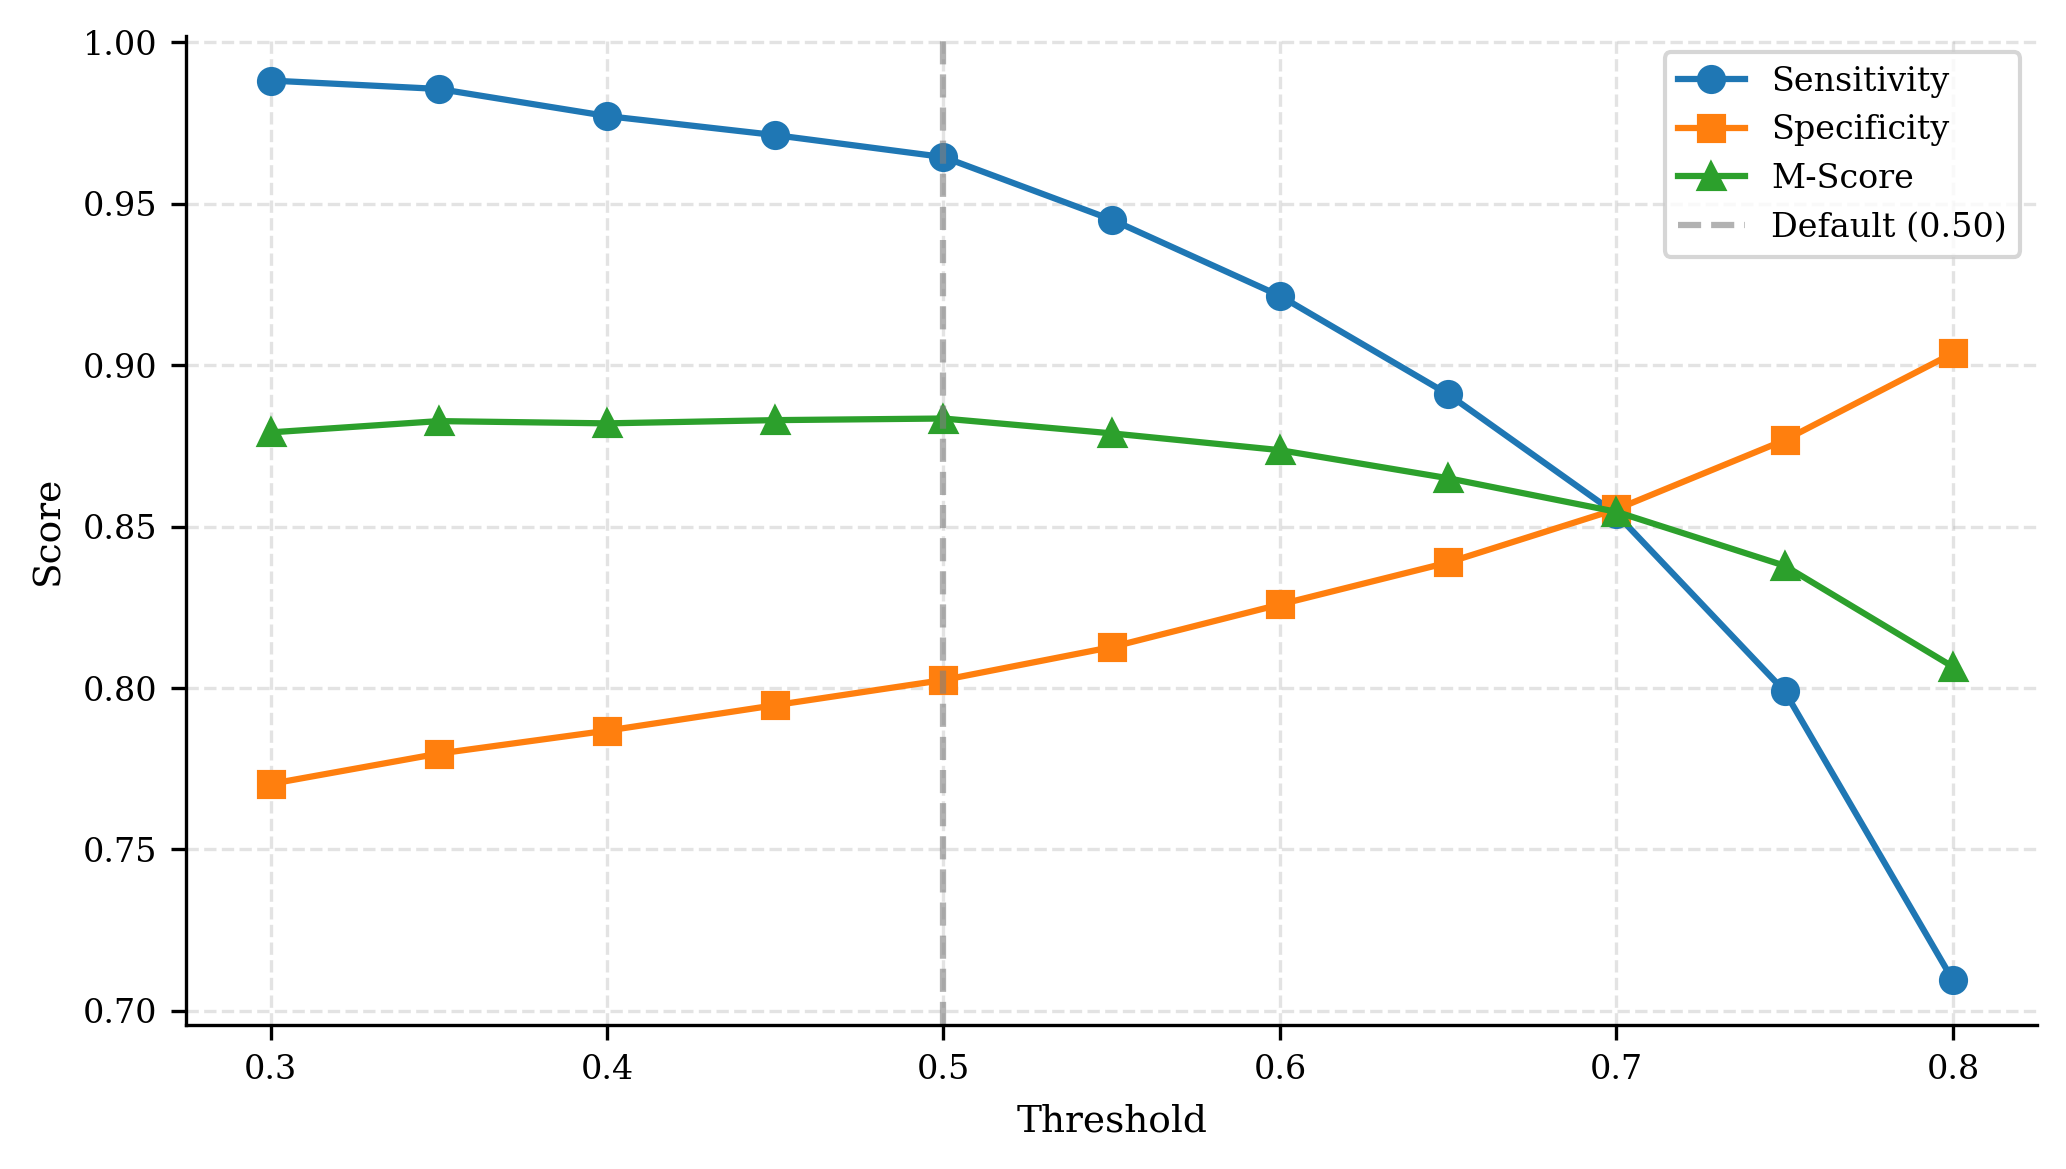
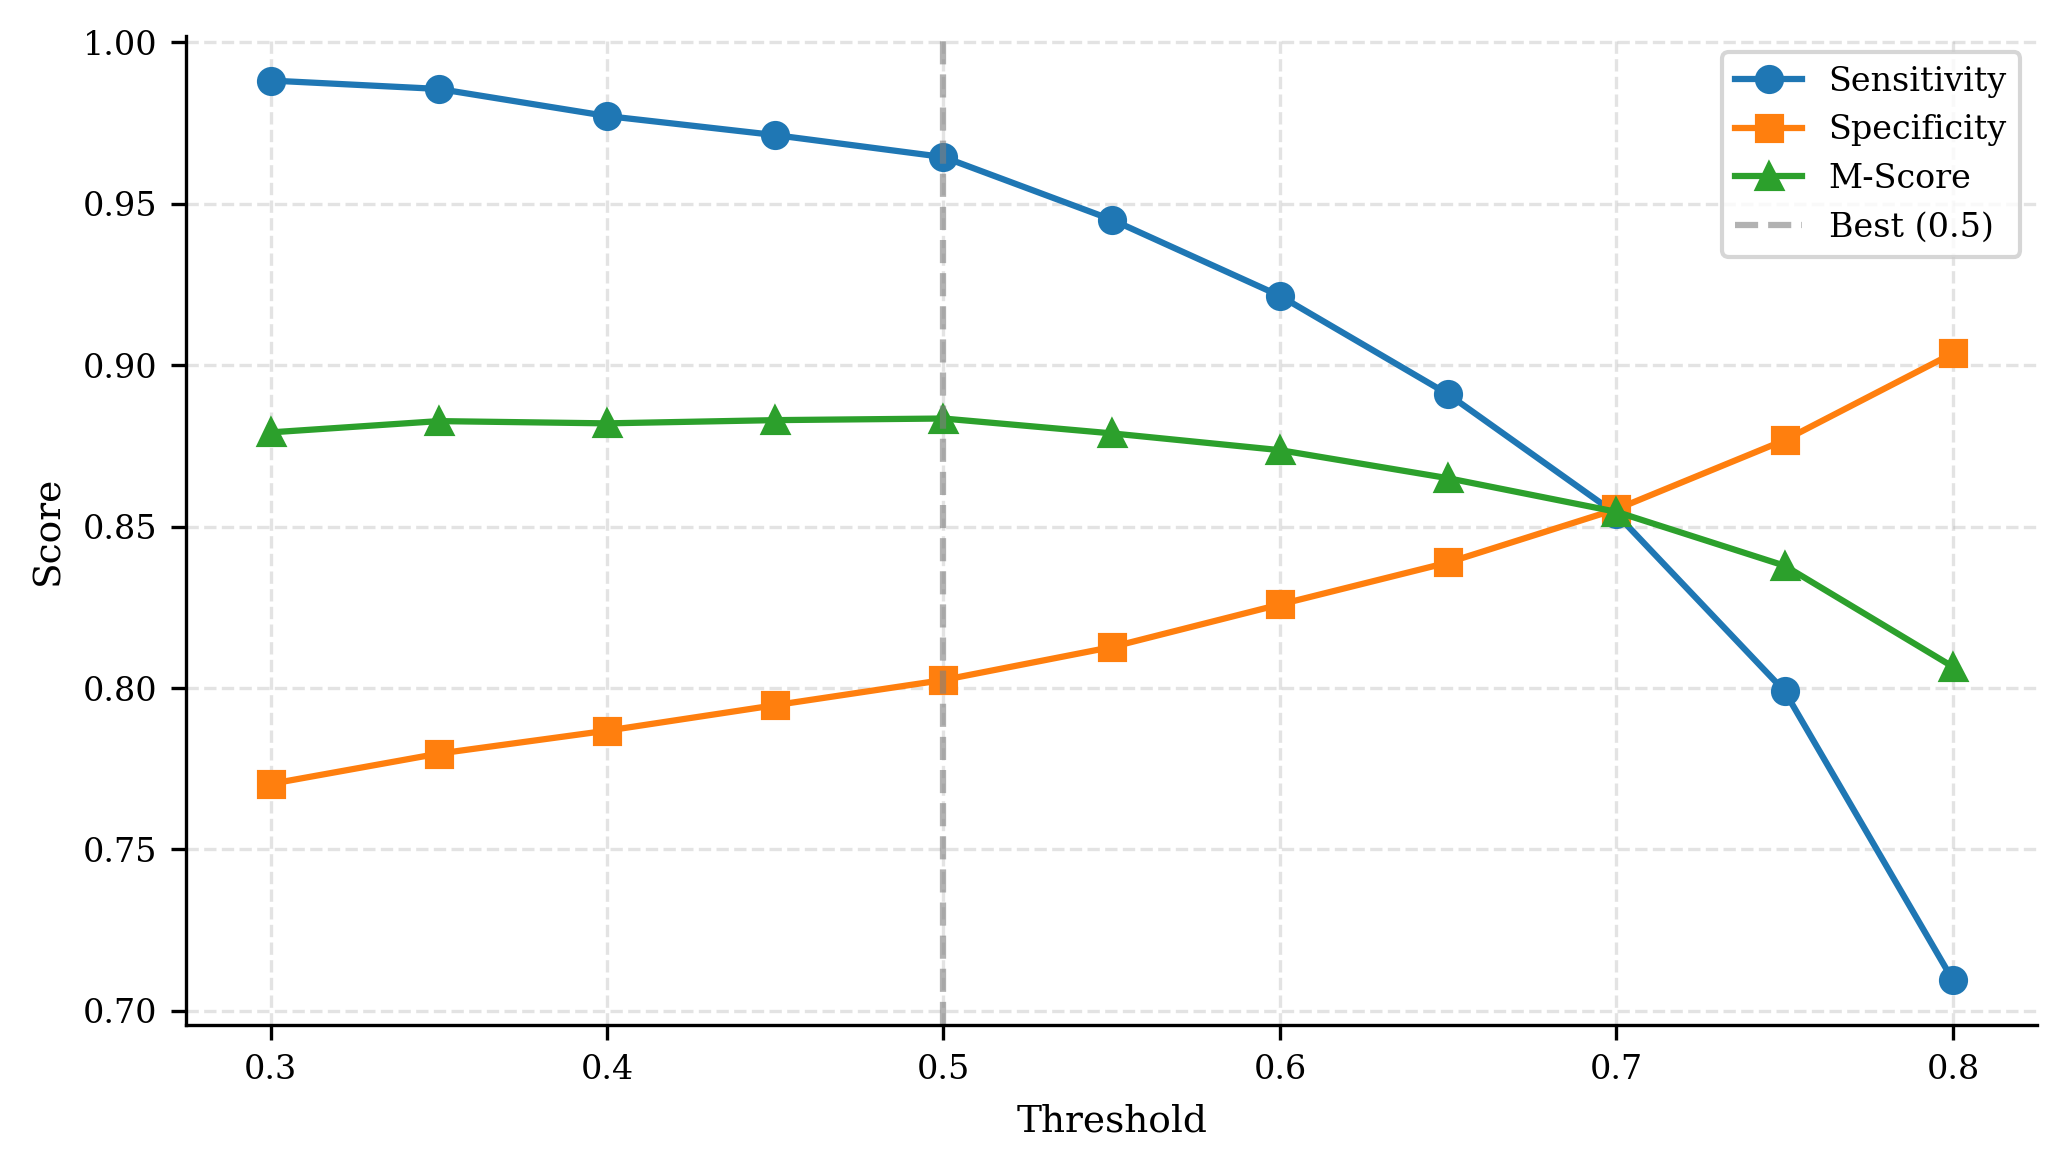
阈值重新扫描,图标修改版

Changed region(s): [[0.8054, 0.0308, 0.9603, 0.2464]]

diff --git a/plot_draw/find_threshold.py b/plot_draw/find_threshold.py
@@ -4,22 +4,22 @@ plt.rcParams['font.family'] = 'serif'
 
 # 更新后的数据（基于日志提取）
 # 更新后的数据（基于最新运行结果，最优阈值为 0.50）
-# thresholds = [0.30, 0.35, 0.40, 0.45, 0.50, 0.55, 0.60, 0.65, 0.70, 0.75, 0.80]
-# se = [0.9882, 0.9856, 0.9772, 0.9713, 0.9645, 0.9451, 0.9215, 0.8910, 0.8539, 0.7990, 0.7095]
-# sp = [0.7703, 0.7797, 0.7868, 0.7947, 0.8025, 0.8127, 0.8259, 0.8389, 0.8554, 0.8768, 0.9037]
-# ms = [0.8792, 0.8827, 0.8820, 0.8830, 0.8835, 0.8789, 0.8737, 0.8650, 0.8546, 0.8379, 0.8066]
-# 更新后的数据（基于日志提取）
 thresholds = [0.30, 0.35, 0.40, 0.45, 0.50, 0.55, 0.60, 0.65, 0.70, 0.75, 0.80]
-se = [0.9480, 0.9314, 0.9210, 0.9168, 0.9044, 0.8898, 0.8773, 0.8732, 0.8565, 0.8420, 0.8212]
-sp = [0.6665, 0.6813, 0.6934, 0.7078, 0.7191, 0.7311, 0.7419, 0.7553, 0.7667, 0.7808, 0.7990]
-ms = [0.8072, 0.8064, 0.8072, 0.8123, 0.8118, 0.8105, 0.8096, 0.8143, 0.8116, 0.8114, 0.8101]
+se = [0.9882, 0.9856, 0.9772, 0.9713, 0.9645, 0.9451, 0.9215, 0.8910, 0.8539, 0.7990, 0.7095]
+sp = [0.7703, 0.7797, 0.7868, 0.7947, 0.8025, 0.8127, 0.8259, 0.8389, 0.8554, 0.8768, 0.9037]
+ms = [0.8792, 0.8827, 0.8820, 0.8830, 0.8835, 0.8789, 0.8737, 0.8650, 0.8546, 0.8379, 0.8066]
+# 更新后的数据（基于日志提取）
+# thresholds = [0.30, 0.35, 0.40, 0.45, 0.50, 0.55, 0.60, 0.65, 0.70, 0.75, 0.80]
+# se = [0.9480, 0.9314, 0.9210, 0.9168, 0.9044, 0.8898, 0.8773, 0.8732, 0.8565, 0.8420, 0.8212]
+# sp = [0.6665, 0.6813, 0.6934, 0.7078, 0.7191, 0.7311, 0.7419, 0.7553, 0.7667, 0.7808, 0.7990]
+# ms = [0.8072, 0.8064, 0.8072, 0.8123, 0.8118, 0.8105, 0.8096, 0.8143, 0.8116, 0.8114, 0.8101]
 
 
 fig, ax = plt.subplots(figsize=(7, 4))
 ax.plot(thresholds, se, 'o-', label='Sensitivity')
 ax.plot(thresholds, sp, 's-', label='Specificity')
 ax.plot(thresholds, ms, '^-', label='M-Score')
-ax.axvline(0.65, color='gray', linestyle='--', alpha=0.6, label='Default (0.50)')
+ax.axvline(0.5, color='gray', linestyle='--', alpha=0.6, label='Best (0.5)')
 ax.set_xlabel('Threshold', fontsize=9)
 ax.set_ylabel('Score', fontsize=9)
 ax.tick_params(axis='both', labelsize=8)
@@ -28,7 +28,7 @@ ax.grid(alpha=0.35, linestyle='--')
 ax.spines[['top', 'right']].set_visible(False)
 
 plt.tight_layout()
-# plt.savefig('fig5_3_threshold_diag.png', dpi=300, bbox_inches='tight')
-# print("fig5_3_threshold_diag.png 已保存")
-plt.savefig('fig5_3_threshold_sqa.png', dpi=300, bbox_inches='tight')
-print("fig5_3_threshold_sqa.png 已保存")
+plt.savefig('fig5_3_threshold_diag.png', dpi=300, bbox_inches='tight')
+print("fig5_3_threshold_diag.png 已保存")
+# plt.savefig('fig5_3_threshold_sqa.png', dpi=300, bbox_inches='tight')
+# print("fig5_3_threshold_sqa.png 已保存")
